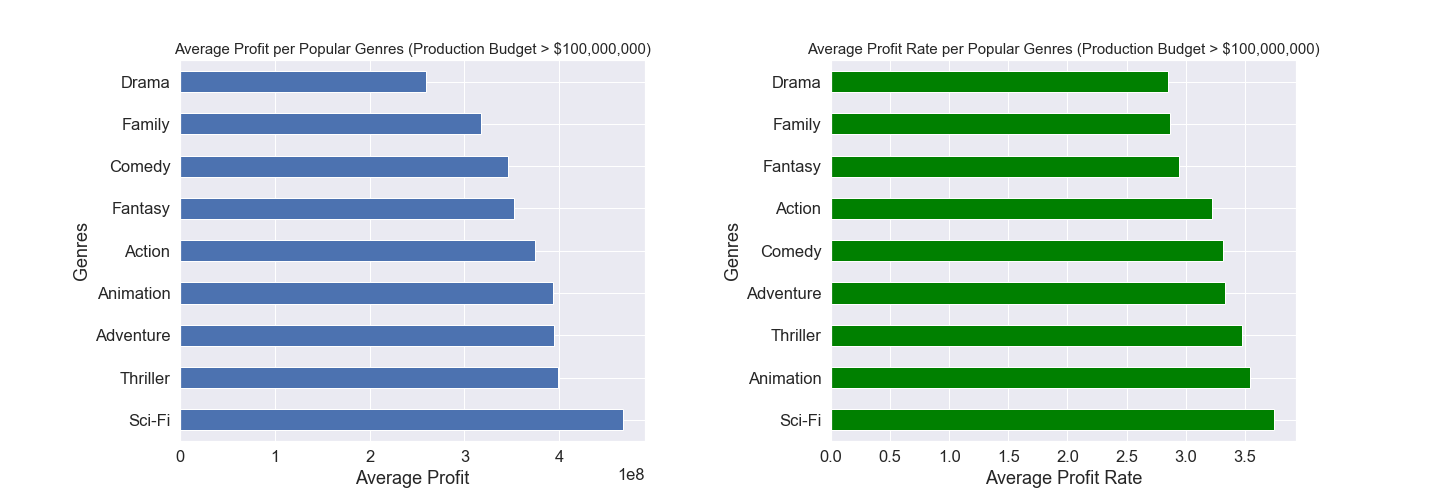
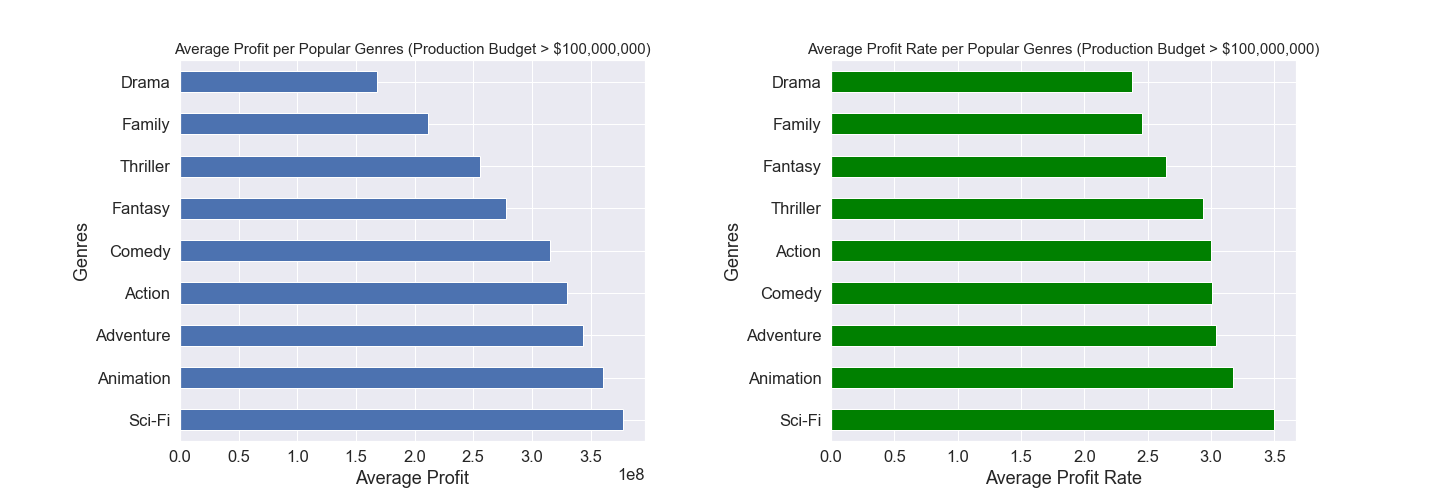
Movie Industry updated

diff --git a/_posts/2021-06-27-Movie-Industry-Study.md b/_posts/2021-06-27-Movie-Industry-Study.md
@@ -40,63 +40,36 @@ The data files are:
 
 4. Merge Data into one DataFrame.
 
-4. Clean Data
-    * Remove the unnecessary columns
-    * Remove rows with $0 worldwide_gross
-    * Change the currency columns to float
-    * Seperate genres
-    * Slice the release year from the release date
+4. Clean Data.
 
-5. Create Profit Columns
+5. Define Profit.
 
-    Two types of profit is defined for this study:
-    * Profit: profit_gross =  worldwide_gross - production_budget
-    * Profit Rate: profit_rate = worldwide_gross / production_budget
-
-6. Save the created DataFrame into a a new data file 'myData.csv'. This is the only data file be used for the analysis.
+6. Save the created DataFrame into a a new data file.
 
 **Part II**
 
 7. Analyse Business Question 1: Is there a correlation between the production budget and the profit?
-    * Create a subset of the data with the selected/required columns for Question 1 and Question 2.
-    * Filter data specifed for Question 1 & 2:
-        * Remove duplicate movies.
-        * Remove old movies with release year before 1990; focus on past 30 years.
-        * Remove outlier movies with very low budget (<$10,000,000) and very high profit rate (>30). 
+    * Filter data for Question 1 & 2
     * Data Visualization and Correlation Calculation: Scatter Plots for 'Profit vs Production Budget' and 'Profit Rate vs Production Rate'
     * Detailed look at the ''Profit vs Production Budget' at different budget ranges: Data Visualization, Correlation and Median profit Rate.
 
 8. Analyse Business Question 2: Is there a correlation between the ratings and the profit?
-    * Use the subset of the data created for Business Question 1.
     * Data Visualization and Correlation Calculation: Scatter 'Profit vs Average Rating' and 'Profit Rate vs Average Rating'.
 
 9. Analyse Business Question 3: Which directors and writers make the most profit?
-    * Create a subset of the data with the selected/required columns for Question 3.
-    * Filter data specifed for Question 3:
-        * Remove duplicate movies.
-        * Remove old movies with release year before 1990; focus on past 30 years.
-        * Remove the names of the dead people.
-        * Select the high budget movies (production_budget > $100,000,000). This selection is based on the analysis for Question 1. 
-    * Most Profitable Directors:
-        * Remove the directors with less than 2 movies 
-        * GroupBy Directors and calculate the median Profit and median Profit Rate
+    * Filter data specifed for Question 3
+    * Select the high budget movies (production_budget > $100,000,000).
+    * Find Most Profitable Directors
         * Data Visualization: Bar Graphs for Profit and Profit Rate. Top names will be displayed only. 
         * Find the intersection of the names on the two lists/bar graphs: Profit and Profit Rate.
-    * Most Profitable Writers:
-        Apply the same analysis as directors.
-    * Most Profitable Actors:
-        Apply the same analysis as directors.
-    * Most Profitable Actresses:
-        Apply the same analysis as directors.
+    * Find Profitable Writers
+    * Find Profitable Actors
+    * Most Profitable Actresses
 
 10. Analyse Business Question 4: Which genres make the most profit?
-    * Create a subset of the data with the selected/required columns for Question 4.
-    * Filter data specifed for Question 4:
-        * Remove duplicate movies.
-        * Remove old movies with release year before 1990; focus on past 30 years.
-        * Select the high budget movies (production_budget > $100,000,000). This selection is based on the analysis for Question 1. 
-    * GroupBy Genres and calculate the median Profit and median Profit Rate. 
-    * Data Visualization: Bar Graphs for Profit and Profit Rate. Common genres with large number of movies will be displayed only. 
+    * Filter data specifed for Question 4.
+    * Select the high budget movies (production_budget > $100,000,000). This selection is based on the analysis for Question 1. 
+    * Data Visualization: Bar Graphs for Profit and Profit Rate.
     * Visually determine the most profitable names based on two bar graphs: Profit and Profit Rate.
 
 **Part III**
@@ -108,6 +81,25 @@ The data files are:
 
 ## Analysis and Results
 
+### Merge, Clean and Save Data
+
+The data from five files is combined into one data frame.
+
+The data is cleaned as follows:
+    * Remove the unnecessary columns
+    * Remove rows with $0 worldwide_gross
+    * Change the currency columns to float
+    * Seperate genres
+    * Slice the release year from the release date
+    
+![Data-Clean-1](/images/figures_MovieBudget/Clean1.png)
+
+![Data-Clean-2](/images/figures_MovieBudget/Clean2.png)
+
+The data Frame is saved into a a new data file 'myData.csv'. This is the only data file to be used for the analysis.
+
+### Profit Rate Definition
+
 My analysis and business questions focus on the factors affecting the profit in movie industry. Therefore, it is crucial to have a good definition of the profit. Instead of using only one profit definition, I chose to explore two definitions:
 
 * Profit: profit_gross =  worldwide_gross - production_budget
@@ -117,13 +109,24 @@ In this study, for each business question, I will look at both 'Profit' and 'Pro
 
 ### Q1: Is there a correlation between the production budget and the profit?
 
+The subset of data is created with the selected/required columns for Question 1 and Question 2.
+
+Data is Filtered with specifed cuts for Question 1 & 2:
+    * Remove duplicate movies.
+    * Remove old movies with release year before 1990; focus on past 30 years.
+    * Remove outlier movies with very low budget (<$10,000,000) and very high profit rate (>30).
+
 In order to understand the effect of prdoduction budget, I plotted the scatter graphs for both profit and profit rate. Then, I have calculated the correlation for each distribution. The correlation values are displayed on the plots.
+
 * As expected and observed on the plot (top), there is a high correlation between the production budget and profit.
 * The correlation between production budget and profit rate is almost zero (bottom plot). The shape of the distribution varies in different budget ranges, the correlation might be different, too.  Therefore, it is better to look at the profit rate distributions in zoomed budget ranges. 
 
 ![Profit-vs-Budget](/images/figures_MovieBudget/budget-profit1.png)
 
 The production budget is divided in 4 ranges, and scatter graphs are plotted for all. The median profit_rate is calculated and displayed on the graphs in addition to the correlation values.
+
+![Q1-MultiGraph](/images/figures_MovieBudget/Q1-MultiGraph.png)
+
 * Low budget: production_budget <= $20,000,000 (top left): Almost zero correlation. Small median profit rate. Investment not recommended.
 * Medium budget: $20,000,000 < production_budget <= $100,000,000 (top right): Almost zero correlation. Acceptable profit rate. Investment is recommended.
 * High budget: $100,000,000 < production_budget <= $200,000,000 (bottom left): Some positive correlation exists. Good, stable profit rate. Highly recommended for investement.
@@ -133,11 +136,32 @@ The production budget is divided in 4 ranges, and scatter graphs are plotted for
 
 ### Q2: Is there a correlation between the ratings and the profit?
 
-The below scatter plots show the profit versus average rating (top) and profit_rate versus average rating (bottom). There is good correlation between average rating and profit/profit_rate. However, after rating 8, the profit and profit rate drops. The left plot shows that, many high rating movies bring low profit, they are probably low budget movies. According to the right plot, the profit_rate is also low for the high rating movies. From profit point of view, I recommend to aim for making movies with average rating between 6 and 8.
+The filtered data Frame created for Question is used for Question 2. 
+
+The below scatter plots show the profit versus average rating (top) and profit_rate versus average rating (bottom). There is good correlation between average rating and profit/profit_rate. However, after rating 8, the profit and profit rate drops. The left plot shows that, many high rating movies bring low profit, they are probably low budget movies. According to the right plot, the profit_rate is also low for the high rating movies. 
+
+From profit point of view, I recommend to aim for making movies with average rating between 6 and 8.
 
 ![Profit-vs-Rating](/images/figures_MovieBudget/rating-profit.png)
 
 ### Q3: Which directors, writers, actors and actresses make the most profit?
+
+The subset of data is created with the selected/required columns for Question 3.
+
+Data is Filtered with specifed cuts for Question 3:
+    * Remove duplicate movies.
+    * Remove old movies with release year before 1990; focus on past 30 years.
+    * Remove the names of the deceased people.
+
+I have created two functions to determine the most profitable names in the selected category. These functions are stored in a seperate .py file.
+
+These functions:
+    * Remove the names with less than 2 movies 
+    * GroupBy names and calculate the median Profit and median Profit Rate
+    * Data Visualization: Bar Graphs for Profit and Profit Rate. Top names will be displayed only. 
+    * Find the intersection of the names on the two lists/bar graphs: Profit and Profit Rate.
+
+![Q3-functions](/images/figures_MovieBudget/Q3-functions.png)
 
 For Business Questions 3 and 4, I have analyzed the movies in two seperate budget ranges:
 * High budget: production_budget > $100,000,000
@@ -146,6 +170,10 @@ For Business Questions 3 and 4, I have analyzed the movies in two seperate budge
 #### High Budget Movies (production_budget > $100,000,000)
 
 **Directors**
+
+Call functions to run analysis for directors:
+
+![Q3-CallFunction](/images/figures_MovieBudget/Q3-callFunction.png)
 
 The figure below displays the bar graphs for the top directors based on profit (left) and based on profit_rate (right) for high budget movies. 
 
@@ -198,6 +226,26 @@ Actresses: 'Ali Larter', 'Hailee Steinfeld', 'Jennifer Lawrence', 'Dakota Johnso
 
 ### Q4: Which genres make the most profit?
 
+The subset of data is created with the selected/required columns for Question 3.
+
+Data is Filtered with specifed cuts for Question 4:
+    * Remove duplicate movies.
+    * Remove old movies with release year before 1990; focus on past 30 years.
+
+The data is GroupBy 'Genres' with Median aggregiation.
+
+![Q3-code1](/images/figures_MovieBudget/figures/Q3-code1.png)
+
+However, some of the genres have few number of movies listed. These genres are removed from the data for healtier result.
+
+![Q3-code2](/images/figures_MovieBudget/figures/Q3-code2.png)
+
+![Q3-code3](/images/figures_MovieBudget/figures/Q3-code3.png)
+
+Bar Graphs for Profit and Profit Rate are drawn for common genres with at least 10 entries. 
+
+![Q3-code4](/images/figures_MovieBudget/figures/Q4-code4.png)
+
 For Business Questions 4, I have analyzed the movies in two seperate budget ranges:
 * High budget: production_budget > $100,000,000
 * Medium budget: $20,000,000 < production_budget <= $100,000,000
@@ -206,7 +254,9 @@ For Business Questions 4, I have analyzed the movies in two seperate budget rang
 
 The bar graphs below compares the most common genres for profit (left) and for profit_rate (right) for high budget movies.
 
-Most profitable genres for High Budget: Sci-Fi, Animation, Thriller, Adventure
+I visually determined the most profitable genres based on two bar graphs: Profit and Profit Rate.
+
+Most profitable genres for High Budget: Sci-Fi, Animation, Adventure, Comedy, and Action
 
 ![Genres2-HighBudget](/images/figures_MovieBudget/figures/genres-profit2_highBudget.png)
 
